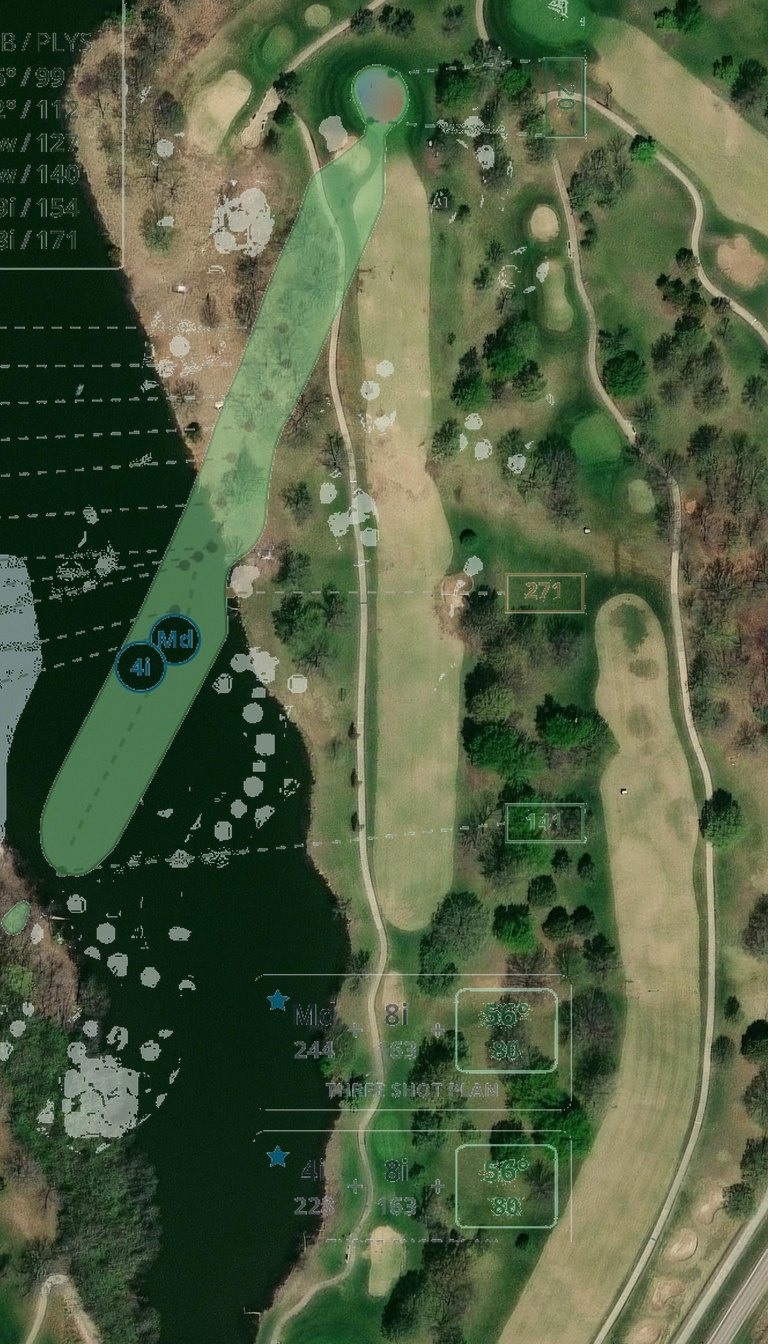
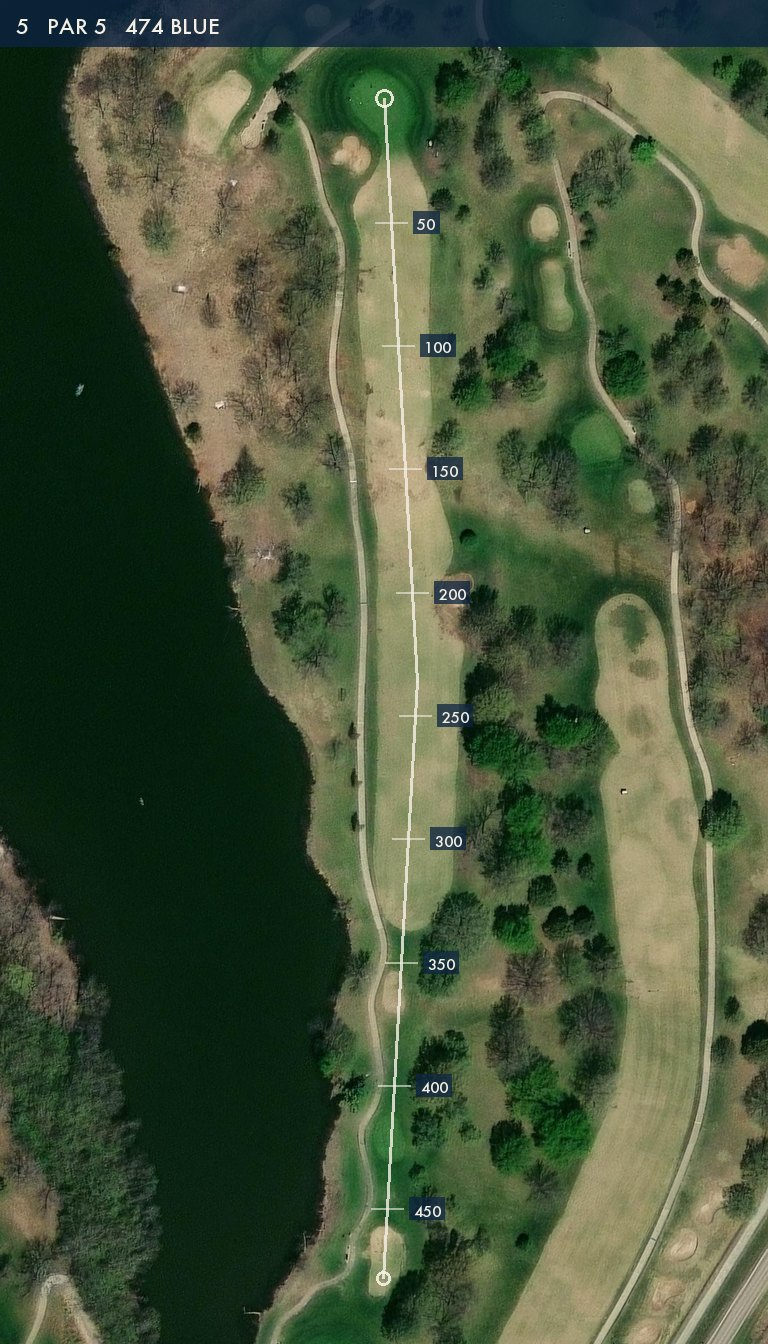
lake shawnee: GPS hole map on the Hole page; link b10

diff --git a/course/lake-shawnee/index.html b/course/lake-shawnee/index.html
@@ -1246,16 +1246,17 @@ function strategyFor(hh){
 
 function bookBlock(){
   const n = String(hole).padStart(2,"0");
-  /* Hole page: the PTC book over the GPS satellite, rendered as a clean portrait
-     page - play-direction up, imagery filling the frame, the book's chrome masked,
-     both layers sharing one orientation so nothing sits sideways. The imagery is
-     fetched per hole at zoom 19 - the provider's native ceiling, 0.23 m/px - framed
-     to that hole's own page corners, rather than sampled from one zoom-17 mosaic of
-     the whole course, which is what made the first version look soft. Tee and green are
-     pinned per hole to BlueGolf's surveyed coordinates. All 18 re-reviewed on this
-     renderer, including 15, whose earlier failure was the midpoint solve and not
-     the anchors. */
-  const SIDES = [["hole","Hole","h"],["green","Green","g"],["strategy","Strategy","s"]];
+  /* Hole page: a GPS hole map built from BlueGolf's surveyed tee, dogleg and green,
+     over per-hole satellite at zoom 19 (the provider's real detail ceiling here -
+     z20/z21 return upsampled tiles at 15% of the detail energy). Play-direction up,
+     yardage-to-green every 50 along the line of play.
+     The PTC-over-satellite overlay was abandoned on evidence: the PTC page is an
+     APPROACH diagram that starts near the 110 yard line and contains no tee, so it
+     cannot be registered to a tee-to-green frame at all. Earlier attempts anchored
+     scale and axis to "the farthest turf pixel from the green", a point that is not
+     the tee and does not exist on the page - which put all 18 ribbons 24-26 degrees
+     and 64-261 yards off. The PTC pages remain on the Green page where they belong. */
+  const SIDES = [["hole","Hole","o"],["green","Green","g"],["strategy","Strategy","s"]];
   const cur = SIDES.find(x=>x[0]===bookSide) || SIDES[0];
   const segs = SIDES.map(x=>`<button class="bookseg ${x[0]===bookSide?"on":""}" data-book="${x[0]}">${x[1]}</button>`).join("");
   return `<section class="book">

diff --git a/index.html b/index.html
@@ -940,7 +940,7 @@ body{background:var(--navy-deep);font-family:var(--font-body);color:var(--cream)
     {name:'Paradise Pointe · Posse',loc:'Smithville, MO',par:72,slug:'paradise-pointe-posse'},
     {name:'Paradise Pointe · Outlaw',loc:'Smithville, MO',par:72,slug:'paradise-pointe-outlaw'},
     {name:'Charleston National Golf Club',loc:'Mount Pleasant, SC',par:72,slug:'charleston-national'},
-    {name:'Lake Shawnee Golf Course',loc:'Topeka, KS',par:70,slug:'lake-shawnee',v:'b9'}
+    {name:'Lake Shawnee Golf Course',loc:'Topeka, KS',par:70,slug:'lake-shawnee',v:'b10'}
   ];
 
   function el(html){var t=document.createElement('template');t.innerHTML=html.trim();return t.content.firstChild;}
